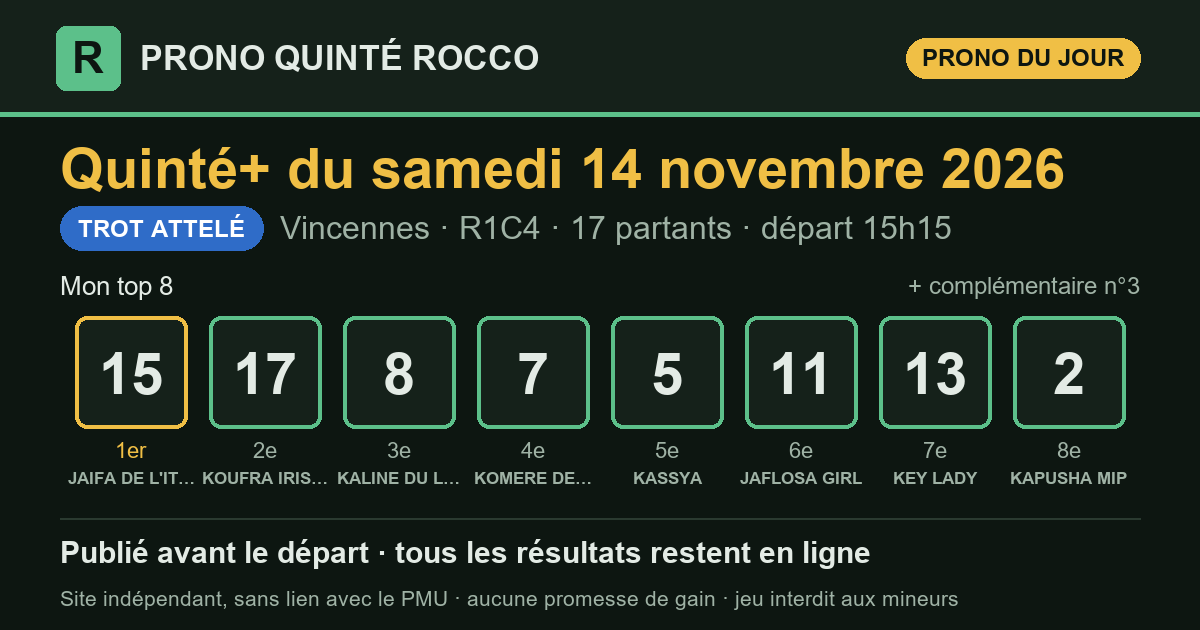
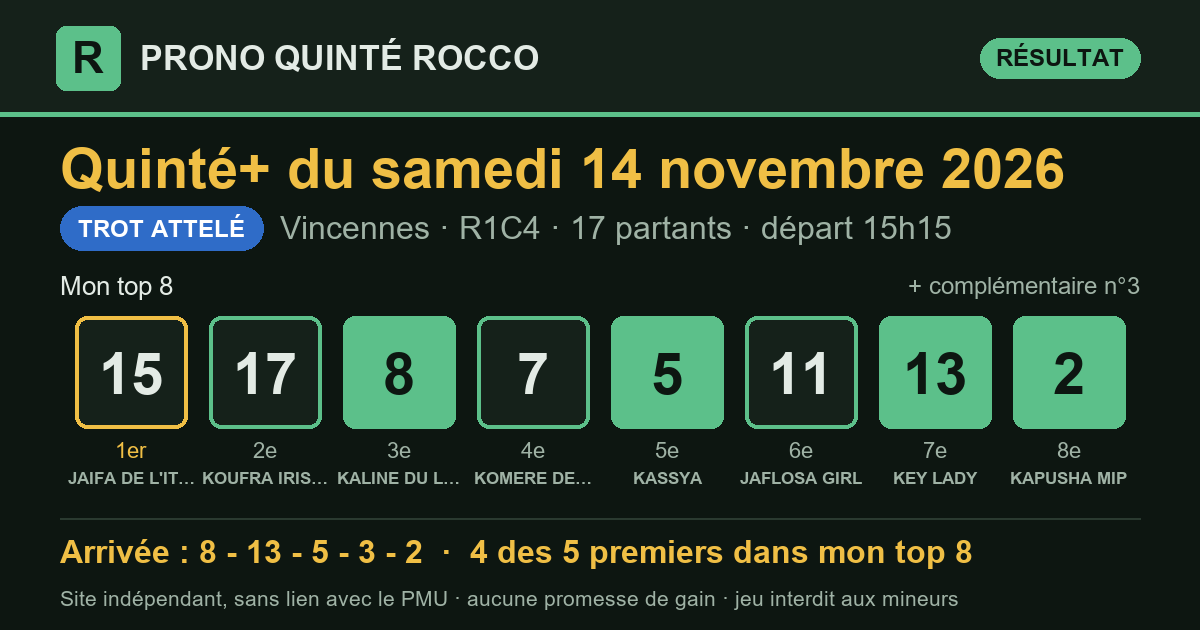
Résultat du Quinté+ 2026-11-14 Vincennes R1C4 — publié le 14/11/2026 15:37 (heure de Paris)

diff --git a/partants.html b/partants.html
@@ -3,7 +3,7 @@
 <head>
 <meta charset="utf-8">
 <meta name="viewport" content="width=device-width, initial-scale=1, viewport-fit=cover">
-<title>Partants du Quinté+ du samedi 14 novembre 2026 : Prix Atlantic — Prono Quinté Rocco</title>
+<title>Partants du Quinté+ du dimanche 15 novembre 2026 : Prix la Haye Jousselin — Prono Quinté Rocco</title>
 <meta name="description" content="Les partants du prochain Quinté+ (programme officiel du PMU), avec le rang de chaque cheval dans mon prono et les liens vers les pronostics de la presse.">
 <link rel="canonical" href="https://prono-quinte-rocco.fr/partants.html">
 <link rel="stylesheet" href="style.css?v=16feb868">
@@ -13,7 +13,7 @@
 <meta property="og:site_name" content="Prono Quinté Rocco">
 <meta property="og:locale" content="fr_FR">
 <meta property="og:type" content="website">
-<meta property="og:title" content="Partants du Quinté+ du samedi 14 novembre 2026 : Prix Atlantic — Prono Quinté Rocco">
+<meta property="og:title" content="Partants du Quinté+ du dimanche 15 novembre 2026 : Prix la Haye Jousselin — Prono Quinté Rocco">
 <meta property="og:description" content="Les partants du prochain Quinté+ (programme officiel du PMU), avec le rang de chaque cheval dans mon prono et les liens vers les pronostics de la presse.">
 <meta property="og:url" content="https://prono-quinte-rocco.fr/partants.html">
 <meta name="twitter:card" content="summary">
@@ -30,110 +30,95 @@
   <p class="surtitre">Programme officiel du PMU</p>
   <h1>Les partants du prochain Quinté+</h1>
   <div class="fiche-course">
-    <p class="fiche-date">Samedi 14 novembre 2026</p>
-    <div class="fiche-rc"><span class="pastille" title="Réunion 1">R1</span><span class="pastille" title="Course 4">C4</span><span class="fiche-nom">Prix Atlantic</span></div>
-    <p class="meta"><span class="type t-attele">Trot attelé</span>Vincennes · 2 700 m · 17 partants</p>
+    <p class="fiche-date">Dimanche 15 novembre 2026</p>
+    <div class="fiche-rc"><span class="pastille" title="Réunion 1">R1</span><span class="pastille" title="Course 6">C6</span><span class="fiche-nom">Prix la Haye Jousselin</span></div>
+    <p class="meta"><span class="type t-obstacle">Obstacle</span>Auteuil · 5 500 m · 15 partants</p>
     <p class="fiche-depart">Départ <b>15:15</b> <span>heure de Paris</span></p>
   </div>
   <p class="surtitre">Les pronostics ailleurs sur le web</p>
-  <div class="liens"><a class="lien-ext" href="https://www.turfoo.fr/programmes-courses/261114/reunion1-vincennes/course4-prix-atlantic/pronostics-presse/" rel="noopener" target="_blank"><b>Les pronostics de la presse →</b><span>sur Turfoo (site extérieur)</span></a><a class="lien-ext" href="https://www.geny.com/programme/2026-11-14" rel="noopener" target="_blank"><b>Partants et pronostics →</b><span>programme du jour sur Geny (site extérieur)</span></a></div>
+  <div class="liens"><a class="lien-ext" href="https://www.turfoo.fr/programmes-courses/261115/reunion1-auteuil/course6-prix-la-haye-jousselin/pronostics-presse/" rel="noopener" target="_blank"><b>Les pronostics de la presse →</b><span>sur Turfoo (site extérieur)</span></a><a class="lien-ext" href="https://www.geny.com/programme/2026-11-15" rel="noopener" target="_blank"><b>Partants et pronostics →</b><span>programme du jour sur Geny (site extérieur)</span></a></div>
   <div class="liste-boite"><table class="liste-partants">
     <thead><tr><th>N°</th><th>Cheval</th><th class="cote"><span class="long">Cote du matin</span><span class="court">Cote</span></th>
     <th class="ia"><span class="long">Mon prono</span><span class="court">Prono</span></th></tr></thead>
-    <tbody><tr class="np">
+    <tbody><tr>
   <td><span class="tapis petit">1</span></td>
-  <td><span class="cheval">JADE DE NAVARY</span><span class="sous">P.Y. LESNE · P. HACHIN</span></td>
-  <td class="cote num">NP</td>
+  <td><span class="cheval">BON GARCON</span><span class="sous">G.RE · CHAILLE-CHAILLE &amp; PAMART</span></td>
+  <td class="cote num">—</td>
   <td class="ia">—</td>
 </tr><tr>
   <td><span class="tapis petit">2</span></td>
-  <td><span class="cheval">KAPUSHA MIP</span><span class="sous">D. THOMAIN · S. GUARATO</span></td>
-  <td class="cote num">27,0</td>
-  <td class="ia"><span class="etat place">8<sup>e</sup></span></td>
+  <td><span class="cheval">AMY DU KIFF</span><span class="sous">T.CHEVILLARD · GAB.LEENDERS (S)</span></td>
+  <td class="cote num">—</td>
+  <td class="ia">—</td>
 </tr><tr>
   <td><span class="tapis petit">3</span></td>
-  <td><span class="cheval">KALISKANA</span><span class="sous">M. ABRIVARD · M. ABRIVARD</span></td>
-  <td class="cote num">14,0</td>
-  <td class="ia"><span class="etat place">compl.</span></td>
+  <td><span class="cheval">TOSCANA DU BERLAIS</span><span class="sous">G.RICHARD · CHAILLE-CHAILLE &amp; PAMART</span></td>
+  <td class="cote num">—</td>
+  <td class="ia">—</td>
 </tr><tr>
   <td><span class="tapis petit">4</span></td>
-  <td><span class="cheval">KANAKA DE BUSSET</span><span class="sous">G. GELORMINI · S. ROGER</span></td>
-  <td class="cote num">32,0</td>
+  <td><span class="cheval">ROYAL SAGA</span><span class="sous">G.MEUNIER · D.BRESSOU</span></td>
+  <td class="cote num">—</td>
   <td class="ia">—</td>
 </tr><tr>
   <td><span class="tapis petit">5</span></td>
-  <td><span class="cheval">KASSYA</span><span class="sous">B. ROCHARD · D. LOCQUENEUX</span></td>
-  <td class="cote num">11,0</td>
-  <td class="ia"><span class="etat place">5<sup>e</sup></span></td>
+  <td><span class="cheval">KALIBRE</span><span class="sous">J.PHELIPPE · M.SEROR (S)</span></td>
+  <td class="cote num">—</td>
+  <td class="ia">—</td>
 </tr><tr>
   <td><span class="tapis petit">6</span></td>
-  <td><span class="cheval">KALITA D&#x27;HENINEL</span><span class="sous">F. LAGADEUC · J.G. VAN EECKHAUTE</span></td>
-  <td class="cote num">14,0</td>
+  <td><span class="cheval">JOJO LAPIN</span><span class="sous">J.PLOUGANOU · D.COTTIN (S)</span></td>
+  <td class="cote num">—</td>
   <td class="ia">—</td>
 </tr><tr>
   <td><span class="tapis petit">7</span></td>
-  <td><span class="cheval">KOMERE DE CORDAY</span><span class="sous">ARNAUD DESMOTTES · ARNAUD DESMOTTES</span></td>
-  <td class="cote num">13,0</td>
-  <td class="ia"><span class="etat place">4<sup>e</sup></span></td>
+  <td><span class="cheval">KILOMETRE ILLIMITE</span><span class="sous">G.MASURE · CHAILLE-CHAILLE &amp; PAMART</span></td>
+  <td class="cote num">—</td>
+  <td class="ia">—</td>
 </tr><tr>
   <td><span class="tapis petit">8</span></td>
-  <td><span class="cheval">KALINE DU LOCHEUR</span><span class="sous">D. BROHIER · D. BROHIER</span></td>
-  <td class="cote num">6,9</td>
-  <td class="ia"><span class="etat place">3<sup>e</sup></span></td>
+  <td><span class="cheval">JUNTOS GANAMOS</span><span class="sous">Q.SAMARIA · D.COTTIN (S)</span></td>
+  <td class="cote num">—</td>
+  <td class="ia">—</td>
 </tr><tr>
   <td><span class="tapis petit">9</span></td>
-  <td><span class="cheval">HUDSON BAIE</span><span class="sous">M. MOTTIER · D. CHEVRIER</span></td>
-  <td class="cote num">72,0</td>
+  <td><span class="cheval">KOLOKICO</span><span class="sous">J.REVELEY · E.CLAYEUX (S)</span></td>
+  <td class="cote num">—</td>
   <td class="ia">—</td>
 </tr><tr>
   <td><span class="tapis petit">10</span></td>
-  <td><span class="cheval">KALMIA QUICK</span><span class="sous">A. REBECHE · M. VARIN</span></td>
-  <td class="cote num">107,0</td>
+  <td><span class="cheval">JOHNNY ROQUE</span><span class="sous">L.BRECHET · D.MELE (S)</span></td>
+  <td class="cote num">—</td>
   <td class="ia">—</td>
 </tr><tr>
   <td><span class="tapis petit">11</span></td>
-  <td><span class="cheval">JAFLOSA GIRL</span><span class="sous">E. RAFFIN · Y. DREUX</span></td>
-  <td class="cote num">12,0</td>
-  <td class="ia"><span class="etat place">6<sup>e</sup></span></td>
+  <td><span class="cheval">LE PETIT CHEVAL</span><span class="sous">B.LE CLERC · F.BELLEMERE</span></td>
+  <td class="cote num">—</td>
+  <td class="ia">—</td>
 </tr><tr>
   <td><span class="tapis petit">12</span></td>
-  <td><span class="cheval">IN RACE LORRAINE</span><span class="sous">G.A. POU POU · G.A. POU POU</span></td>
-  <td class="cote num">69,0</td>
+  <td><span class="cheval">FEU DE DIEU</span><span class="sous">L.PHILIPPERON · D.COTTIN (S)</span></td>
+  <td class="cote num">—</td>
   <td class="ia">—</td>
 </tr><tr>
   <td><span class="tapis petit">13</span></td>
-  <td><span class="cheval">KEY LADY</span><span class="sous">A. ABRIVARD · L. BAUDRON</span></td>
-  <td class="cote num">9,9</td>
-  <td class="ia"><span class="etat place">7<sup>e</sup></span></td>
+  <td><span class="cheval">KIVALA DU BERLAIS</span><span class="sous">J.CHARRON · D.COTTIN (S)</span></td>
+  <td class="cote num">—</td>
+  <td class="ia">—</td>
 </tr><tr>
   <td><span class="tapis petit">14</span></td>
-  <td><span class="cheval">JALOUZ D&#x27;OLIVERIE</span><span class="sous">P.PH. PLOQUIN · J.M. BAUDOUIN</span></td>
-  <td class="cote num">32,0</td>
+  <td><span class="cheval">GINJA DES TAILLONS</span><span class="sous">L.ZULIANI · E.ANDIGNE D&#x27;</span></td>
+  <td class="cote num">—</td>
   <td class="ia">—</td>
 </tr><tr>
   <td><span class="tapis petit">15</span></td>
-  <td><span class="cheval">JAIFA DE L&#x27;ITON</span><span class="sous">A. BARRIER · HUGHES LEVESQUE</span></td>
-  <td class="cote num">4,6</td>
-  <td class="ia"><span class="etat place">1<sup>er</sup></span></td>
-</tr><tr>
-  <td><span class="tapis petit">16</span></td>
-  <td><span class="cheval">IDREAMIS</span><span class="sous">J.F. SENET · J.F. SENET</span></td>
-  <td class="cote num">113,0</td>
-  <td class="ia">—</td>
-</tr><tr>
-  <td><span class="tapis petit">17</span></td>
-  <td><span class="cheval">KOUFRA IRIS&#x27;EYES</span><span class="sous">A. COLLETTE · J.M. CHAINEUX</span></td>
-  <td class="cote num">5,8</td>
-  <td class="ia"><span class="etat place">2<sup>e</sup></span></td>
-</tr><tr>
-  <td><span class="tapis petit">18</span></td>
-  <td><span class="cheval">JEZABELLE BIE</span><span class="sous">M. IZZO · M. IZZO</span></td>
-  <td class="cote num">142,0</td>
+  <td><span class="cheval">LACOKOKELDY</span><span class="sous">A.ZULIANI · F.NICOLLE</span></td>
+  <td class="cote num">—</td>
   <td class="ia">—</td>
 </tr></tbody>
   </table></div>
-  <p class="meta">La colonne « Mon prono » donne le rang de chaque cheval dans mon top 8, tel qu&#x27;il est publié sur ce site. Sous chaque cheval : driver · entraîneur. Partants et cotes : programme
-  officiel du PMU, lu le 14/11 à 10:07 (heure de Paris). NP = non-partant.</p>
+  <p class="meta">Mon prono de cette course sera publié le matin de la course, avant le départ. Sous chaque cheval : jockey · entraîneur. Partants et cotes : programme
+  officiel du PMU, lu le 14/11 à 15:37 (heure de Paris). NP = non-partant.</p>
 </section>
 </main>
 <footer class="pied">

diff --git a/index.html b/index.html
@@ -16,7 +16,7 @@
 <meta property="og:title" content="Pronostics Quinté+ et Super Pick 5 du samedi 14 novembre 2026 — Prono Quinté Rocco">
 <meta property="og:description" content="Pronostics Quinté+ (Prix Atlantic) et Super Pick 5 (Prix du Languedoc) du jour : mes top 8, publiés avant le départ, puis tous les résultats et le rendement réel.">
 <meta property="og:url" content="https://prono-quinte-rocco.fr/">
-<meta property="og:image" content="https://prono-quinte-rocco.fr/partage/jour-2026-11-14.png?v=31b1ccc4">
+<meta property="og:image" content="https://prono-quinte-rocco.fr/partage/jour-2026-11-14.png?v=0c82475a">
 <meta property="og:image:type" content="image/png">
 <meta property="og:image:width" content="1200">
 <meta property="og:image:height" content="630">
@@ -32,7 +32,7 @@
 <div class="jeux j-quinte" role="navigation" aria-label="Choix du jeu"><a class="jeu jeu-quinte actif" href="index.html" aria-current="true">Quinté+</a><a class="jeu jeu-sp5" href="superpick5.html">e-Super Pick5<small>entre 17 h et 19 h</small></a></div>
 <main>
 <section class="une" aria-labelledby="t-jour">
-  <p class="surtitre">Quinté+ du jour</p>
+  <p class="surtitre">Dernier Quinté+</p>
   <h1 id="t-jour">Le prono du Quinté+, résultats compris</h1>
   <p class="chapo">Chaque matin, j'étudie les partants du Quinté+ avec le logiciel que
   j'ai conçu, selon ma propre méthode, qu'une intelligence artificielle m'aide à
@@ -43,10 +43,13 @@
   <p class="meta">Prix Atlantic · Vincennes · <strong>R1C4</strong> · 17 partants · <span class="lisib">lisibilité <span class="note" aria-label="note 3 sur 5" title="lisibilité 3/5 : course assez ouverte"><i class="on"></i><i class="on"></i><i class="on"></i><i class=""></i><i class=""></i></span> 3/5</span></p>
   <div class="zone-prono">
     <h3 class="zone-titre">Mon top 8</h3>
-    <ol class="partants" aria-label="Mon top 8"><li><span class="rang">1<sup>er</sup></span><span class="tapis ">15</span><span class="nom">JAIFA DE L&#x27;ITON</span></li><li><span class="rang">2<sup>e</sup></span><span class="tapis ">17</span><span class="nom">KOUFRA IRIS&#x27;EYES</span></li><li><span class="rang">3<sup>e</sup></span><span class="tapis ">8</span><span class="nom">KALINE DU LOCHEUR</span></li><li><span class="rang">4<sup>e</sup></span><span class="tapis ">7</span><span class="nom">KOMERE DE CORDAY</span></li><li><span class="rang">5<sup>e</sup></span><span class="tapis ">5</span><span class="nom">KASSYA</span></li><li><span class="rang">6<sup>e</sup></span><span class="tapis ">11</span><span class="nom">JAFLOSA GIRL</span></li><li><span class="rang">7<sup>e</sup></span><span class="tapis ">13</span><span class="nom">KEY LADY</span></li><li><span class="rang">8<sup>e</sup></span><span class="tapis ">2</span><span class="nom">KAPUSHA MIP</span></li><li><span class="rang">compl.</span><span class="tapis creux">3</span><span class="nom">KALISKANA</span></li></ol>
+    <ol class="partants" aria-label="Mon top 8"><li><span class="rang">1<sup>er</sup></span><span class="tapis ">15</span><span class="nom">JAIFA DE L&#x27;ITON</span></li><li><span class="rang">2<sup>e</sup></span><span class="tapis ">17</span><span class="nom">KOUFRA IRIS&#x27;EYES</span></li><li><span class="rang">3<sup>e</sup></span><span class="tapis plein">8</span><span class="nom">KALINE DU LOCHEUR</span></li><li><span class="rang">4<sup>e</sup></span><span class="tapis ">7</span><span class="nom">KOMERE DE CORDAY</span></li><li><span class="rang">5<sup>e</sup></span><span class="tapis plein">5</span><span class="nom">KASSYA</span></li><li><span class="rang">6<sup>e</sup></span><span class="tapis ">11</span><span class="nom">JAFLOSA GIRL</span></li><li><span class="rang">7<sup>e</sup></span><span class="tapis plein">13</span><span class="nom">KEY LADY</span></li><li><span class="rang">8<sup>e</sup></span><span class="tapis plein">2</span><span class="nom">KAPUSHA MIP</span></li><li><span class="rang">compl.</span><span class="tapis creux plein">3</span><span class="nom">KALISKANA</span></li></ol>
     <div class="pied-carte"><span>Analysé le 14/11 à 10:01 · en ligne le 14/11 à 10:03 · départ à 15:15 (heure de Paris)</span><span><a href="quinte/2026-11-14.html">Détail de la course</a></span></div>
   </div>
-  <div class="zone-arrivee attente"><p>L'arrivée officielle s'affichera ici après la course.</p></div>
+  <div class="zone-arrivee">
+    <div class="zone-tete"><h3 class="zone-titre">Arrivée officielle</h3><span class="etat place">4 des 5 premiers dans mon top 8</span><span class="etat non">mon 1er (n°15) : non placé</span></div>
+    <ol class="partants" aria-label="Arrivée officielle"><li><span class="rang">1<sup>er</sup></span><span class="tapis plein">8</span><span class="nom">KALINE DU LOCHEUR</span></li><li><span class="rang">2<sup>e</sup></span><span class="tapis plein">13</span><span class="nom">KEY LADY</span></li><li><span class="rang">3<sup>e</sup></span><span class="tapis plein">5</span><span class="nom">KASSYA</span></li><li><span class="rang">4<sup>e</sup></span><span class="tapis creux plein">3</span><span class="nom">KALISKANA</span></li><li><span class="rang">5<sup>e</sup></span><span class="tapis plein">2</span><span class="nom">KAPUSHA MIP</span></li></ol>
+  </div>
 </article>
 </section>
 <section class="suivre" aria-label="Suivre et soutenir">
@@ -76,7 +79,7 @@
 </section>
 <section class="bilan" aria-labelledby="t-bilan">
   <h2 id="t-bilan">Mon bilan depuis le 8 septembre 2026</h2>
-  <div class="tableau chiffres"><div class="case"><span class="gros ">73 %</span><span class="lib">des arrivants trouvés dans mon top 8</span><span class="ref">un top 8 tiré au hasard : 51 %</span></div><div class="case"><span class="gros ">88 %</span><span class="lib">des gagnants présents dans mon top 8</span><span class="ref"></span></div><div class="case"><span class="gros ">50 %</span><span class="lib">mon 1er placé</span><span class="ref">sur 66 Quintés</span></div><div class="case"><span class="gros perte">0,92 €</span><span class="lib">rendus pour 1 € joué placé sur mon 1er</span><span class="ref">rapports officiels PMU</span></div><div class="case"><span class="gros perte">0,43 €</span><span class="lib">rendus pour 1 € joué en Quinté+ combiné sur mon top 8</span><span class="ref">56 combinaisons, rapports PMU.fr, sur 66 Quintés</span></div></div>
+  <div class="tableau chiffres"><div class="case"><span class="gros ">73 %</span><span class="lib">des arrivants trouvés dans mon top 8</span><span class="ref">un top 8 tiré au hasard : 51 %</span></div><div class="case"><span class="gros ">88 %</span><span class="lib">des gagnants présents dans mon top 8</span><span class="ref"></span></div><div class="case"><span class="gros ">49 %</span><span class="lib">mon 1er placé</span><span class="ref">sur 67 Quintés</span></div><div class="case"><span class="gros perte">0,91 €</span><span class="lib">rendus pour 1 € joué placé sur mon 1er</span><span class="ref">rapports officiels PMU</span></div><div class="case"><span class="gros perte">0,43 €</span><span class="lib">rendus pour 1 € joué en Quinté+ combiné sur mon top 8</span><span class="ref">56 combinaisons, rapports PMU.fr, sur 67 Quintés</span></div></div>
   <p class="avertissement">Moins de 1 € rendu pour 1 € joué : suivre mon prono à la lettre fait <strong>perdre de l'argent</strong> sur cette période. Il sert à analyser une course, pas à promettre un gain.</p>
 </section>
 </main>

diff --git a/quinte/2026-11-14.html b/quinte/2026-11-14.html
@@ -16,7 +16,7 @@
 <meta property="og:title" content="Pronostic Quinté+ du samedi 14 novembre 2026 : Prix Atlantic à Vincennes — Prono Quinté Rocco">
 <meta property="og:description" content="Prono Quinté+ du samedi 14 novembre 2026 (Prix Atlantic, Vincennes) : mon top 8, l&#x27;arrivée officielle et les rapports PMU.fr.">
 <meta property="og:url" content="https://prono-quinte-rocco.fr/quinte/2026-11-14.html">
-<meta property="og:image" content="https://prono-quinte-rocco.fr/partage/2026-11-14.png?v=647a895c">
+<meta property="og:image" content="https://prono-quinte-rocco.fr/partage/2026-11-14.png?v=fec7392f">
 <meta property="og:image:type" content="image/png">
 <meta property="og:image:width" content="1200">
 <meta property="og:image:height" content="630">
@@ -36,15 +36,25 @@
   <h1>Pronostic Quinté+ du samedi 14 novembre 2026</h1>
   <p class="chapo">Prix Atlantic · Vincennes · R1C4 · Attelé · 17 partants</p>
   <article class="carte-course">
-  <div class="tete"><h2>Mon prono</h2><span class="type t-attele">Trot attelé</span></div>
+  <div class="tete"><h2>Mon prono et l&#x27;arrivée officielle</h2><span class="type t-attele">Trot attelé</span></div>
   <p class="meta">Prix Atlantic · Vincennes · <strong>R1C4</strong> · 17 partants · <span class="lisib">lisibilité <span class="note" aria-label="note 3 sur 5" title="lisibilité 3/5 : course assez ouverte"><i class="on"></i><i class="on"></i><i class="on"></i><i class=""></i><i class=""></i></span> 3/5</span></p>
   <div class="zone-prono">
     <h3 class="zone-titre">Mon top 8</h3>
-    <ol class="partants" aria-label="Mon top 8"><li><span class="rang">1<sup>er</sup></span><span class="tapis ">15</span><span class="nom">JAIFA DE L&#x27;ITON</span></li><li><span class="rang">2<sup>e</sup></span><span class="tapis ">17</span><span class="nom">KOUFRA IRIS&#x27;EYES</span></li><li><span class="rang">3<sup>e</sup></span><span class="tapis ">8</span><span class="nom">KALINE DU LOCHEUR</span></li><li><span class="rang">4<sup>e</sup></span><span class="tapis ">7</span><span class="nom">KOMERE DE CORDAY</span></li><li><span class="rang">5<sup>e</sup></span><span class="tapis ">5</span><span class="nom">KASSYA</span></li><li><span class="rang">6<sup>e</sup></span><span class="tapis ">11</span><span class="nom">JAFLOSA GIRL</span></li><li><span class="rang">7<sup>e</sup></span><span class="tapis ">13</span><span class="nom">KEY LADY</span></li><li><span class="rang">8<sup>e</sup></span><span class="tapis ">2</span><span class="nom">KAPUSHA MIP</span></li><li><span class="rang">compl.</span><span class="tapis creux">3</span><span class="nom">KALISKANA</span></li></ol>
+    <ol class="partants" aria-label="Mon top 8"><li><span class="rang">1<sup>er</sup></span><span class="tapis ">15</span><span class="nom">JAIFA DE L&#x27;ITON</span></li><li><span class="rang">2<sup>e</sup></span><span class="tapis ">17</span><span class="nom">KOUFRA IRIS&#x27;EYES</span></li><li><span class="rang">3<sup>e</sup></span><span class="tapis plein">8</span><span class="nom">KALINE DU LOCHEUR</span></li><li><span class="rang">4<sup>e</sup></span><span class="tapis ">7</span><span class="nom">KOMERE DE CORDAY</span></li><li><span class="rang">5<sup>e</sup></span><span class="tapis plein">5</span><span class="nom">KASSYA</span></li><li><span class="rang">6<sup>e</sup></span><span class="tapis ">11</span><span class="nom">JAFLOSA GIRL</span></li><li><span class="rang">7<sup>e</sup></span><span class="tapis plein">13</span><span class="nom">KEY LADY</span></li><li><span class="rang">8<sup>e</sup></span><span class="tapis plein">2</span><span class="nom">KAPUSHA MIP</span></li><li><span class="rang">compl.</span><span class="tapis creux plein">3</span><span class="nom">KALISKANA</span></li></ol>
     <div class="pied-carte"><span>Analysé le 14/11 à 10:01 · en ligne le 14/11 à 10:03 · départ à 15:15 (heure de Paris)</span><span></span></div>
   </div>
-  <div class="zone-arrivee attente"><p>L'arrivée officielle s'affichera ici après la course.</p></div>
+  <div class="zone-arrivee">
+    <div class="zone-tete"><h3 class="zone-titre">Arrivée officielle</h3><span class="etat place">4 des 5 premiers dans mon top 8</span><span class="etat non">mon 1er (n°15) : non placé</span></div>
+    <ol class="partants" aria-label="Arrivée officielle"><li><span class="rang">1<sup>er</sup></span><span class="tapis plein">8</span><span class="nom">KALINE DU LOCHEUR</span></li><li><span class="rang">2<sup>e</sup></span><span class="tapis plein">13</span><span class="nom">KEY LADY</span></li><li><span class="rang">3<sup>e</sup></span><span class="tapis plein">5</span><span class="nom">KASSYA</span></li><li><span class="rang">4<sup>e</sup></span><span class="tapis creux plein">3</span><span class="nom">KALISKANA</span></li><li><span class="rang">5<sup>e</sup></span><span class="tapis plein">2</span><span class="nom">KAPUSHA MIP</span></li></ol>
+  </div>
 </article>
+<section class="carte-course rapports" aria-labelledby="t-rap">
+  <div class="tete"><h2 id="t-rap">Les rapports</h2></div>
+  <div class="deux">
+    <div><h3>Ce qu'aurait rendu mon prono</h3><dl class="kv"><dt>1 € placé sur mon 1er (n°15)</dt><dd class="perte">0,00 €</dd><dt>1 € gagnant sur mon 1er</dt><dd class="perte">0,00 €</dd><dt>Quinté+ combiné sur mon top 8 (mise 112 €)</dt><dd class="partiel"><span class="etat partiel somme">72,00 €</span></dd><dd class="dont">dont Bonus 4sur5 × 4, Bonus 3 × 6</dd></dl></div>
+    <div><h3>Rapports officiels</h3><dl class="kv"><dt>e-Quinté+ Ordre (2 €)</dt><dd>16 726,00 €</dd><dt>e-Quinté+ Désordre (2 €)</dt><dd>219,40 €</dd><dt>e-Bonus 4sur5 (2 €)</dt><dd>8,40 €</dd><dt>e-Bonus 3 (2 €)</dt><dd>6,40 €</dd></dl></div>
+  </div>
+</section>
 </section>
 </main>
 <footer class="pied">

diff --git a/resultats.html b/resultats.html
@@ -49,12 +49,12 @@
     <th colspan="4" class="res g-res">Le résultat officiel</th></tr>
     <tr><th>Date</th><th>Course</th><th>Top 8</th><th class="c-lis">Lisibilité</th><th class="res c-arr">Arrivée</th>
     <th class="res">Trouvés</th><th class="res">Mon 1er</th><th class="res mont">Quinté+ top 8<br><small>(mise 112 €)</small></th></tr></thead>
-    <tbody><tr class="attente">
+    <tbody><tr>
   <td class="c-date"><a href="quinte/2026-11-14.html">14/11</a></td>
   <td class="c-course">Vincennes<br><span class="meta">R1C4</span><span class="type t-attele petit">Attelé</span></td>
-  <td class="c-top8" data-label="Mon top 8"><div class="rangee"><span class="tapis petit">15</span><span class="tapis petit">17</span><span class="tapis petit">8</span><span class="tapis petit">7</span><span class="tapis petit">5</span><span class="tapis petit">11</span><span class="tapis petit">13</span><span class="tapis petit">2</span></div></td>
+  <td class="c-top8" data-label="Mon top 8"><div class="rangee"><span class="tapis petit">15</span><span class="tapis petit">17</span><span class="tapis plein petit">8</span><span class="tapis petit">7</span><span class="tapis plein petit">5</span><span class="tapis petit">11</span><span class="tapis plein petit">13</span><span class="tapis plein petit">2</span></div></td>
   <td class="c-lis" data-label="Lisibilité"><span class="note" aria-label="note 3 sur 5" title="lisibilité 3/5 : course assez ouverte"><i class="on"></i><i class="on"></i><i class="on"></i><i class=""></i><i class=""></i></span> 3/5</td>
-  <td class="res c-arr" data-label="Arrivée"><span class="etat attente">en attente</span></td><td class="res num c-trouves" data-label="Trouvés">—</td><td class="res c-premier" data-label="Mon 1er"><span class="etat attente">—</span></td><td class="res mont c-mont" data-label="Quinté+ top 8 (mise 112 €)">—</td>
+  <td class="res c-arr" data-label="Arrivée"><div class="rangee"><span class="tapis plein petit" title="1er">8</span><span class="tapis plein petit" title="2e">13</span><span class="tapis plein petit" title="3e">5</span><span class="tapis hors petit" title="4e">3</span><span class="tapis plein petit" title="5e">2</span></div></td><td class="res num c-trouves" data-label="Trouvés"><span class="etat place" title="4 des 5 premiers sont dans mon top 8">4/5</span></td><td class="res c-premier" data-label="Mon 1er"><span class="etat non">non placé</span></td><td class="res mont c-mont partiel" data-label="Quinté+ top 8 (mise 112 €)" title="perte nette : 40,00 €"><span class="etat partiel somme">72,00 €</span></td>
 </tr><tr>
   <td class="c-date"><a href="quinte/2026-11-13.html">13/11</a></td>
   <td class="c-course">Vincennes<br><span class="meta">R1C4</span><span class="type t-attele petit">Attelé</span></td>
@@ -456,7 +456,7 @@
 </section>
 <section class="bilan" aria-labelledby="t-bilan">
   <h2 id="t-bilan">Mon bilan depuis le 8 septembre 2026</h2>
-  <div class="tableau chiffres"><div class="case"><span class="gros ">73 %</span><span class="lib">des arrivants trouvés dans mon top 8</span><span class="ref">un top 8 tiré au hasard : 51 %</span></div><div class="case"><span class="gros ">88 %</span><span class="lib">des gagnants présents dans mon top 8</span><span class="ref"></span></div><div class="case"><span class="gros ">50 %</span><span class="lib">mon 1er placé</span><span class="ref">sur 66 Quintés</span></div><div class="case"><span class="gros perte">0,92 €</span><span class="lib">rendus pour 1 € joué placé sur mon 1er</span><span class="ref">rapports officiels PMU</span></div><div class="case"><span class="gros perte">0,43 €</span><span class="lib">rendus pour 1 € joué en Quinté+ combiné sur mon top 8</span><span class="ref">56 combinaisons, rapports PMU.fr, sur 66 Quintés</span></div></div>
+  <div class="tableau chiffres"><div class="case"><span class="gros ">73 %</span><span class="lib">des arrivants trouvés dans mon top 8</span><span class="ref">un top 8 tiré au hasard : 51 %</span></div><div class="case"><span class="gros ">88 %</span><span class="lib">des gagnants présents dans mon top 8</span><span class="ref"></span></div><div class="case"><span class="gros ">49 %</span><span class="lib">mon 1er placé</span><span class="ref">sur 67 Quintés</span></div><div class="case"><span class="gros perte">0,91 €</span><span class="lib">rendus pour 1 € joué placé sur mon 1er</span><span class="ref">rapports officiels PMU</span></div><div class="case"><span class="gros perte">0,43 €</span><span class="lib">rendus pour 1 € joué en Quinté+ combiné sur mon top 8</span><span class="ref">56 combinaisons, rapports PMU.fr, sur 67 Quintés</span></div></div>
   <p class="avertissement">Moins de 1 € rendu pour 1 € joué : suivre mon prono à la lettre fait <strong>perdre de l'argent</strong> sur cette période. Il sert à analyser une course, pas à promettre un gain.</p>
 </section>
 </main>

diff --git a/superpick5-partants.html b/superpick5-partants.html
@@ -43,72 +43,72 @@
     <tbody><tr>
   <td><span class="tapis petit">1</span></td>
   <td><span class="cheval">DIVA DEL RONCO</span><span class="sous">V. CIOTOLA · Vitale CIOTOLA</span></td>
-  <td class="cote num">—</td>
+  <td class="cote num">91,0</td>
   <td class="ia">—</td>
 </tr><tr>
   <td><span class="tapis petit">2</span></td>
   <td><span class="cheval">HANNAH</span><span class="sous">M. GYRE · Julien RAFFESTIN</span></td>
-  <td class="cote num">189,0</td>
+  <td class="cote num">160,0</td>
   <td class="ia">—</td>
 </tr><tr>
   <td><span class="tapis petit">3</span></td>
   <td><span class="cheval">HURRICANE CARTER</span><span class="sous">A. ABRIVARD · Mme S. RAIMOND</span></td>
-  <td class="cote num">46,0</td>
+  <td class="cote num">36,0</td>
   <td class="ia"><span class="etat place">7<sup>e</sup></span></td>
 </tr><tr>
   <td><span class="tapis petit">4</span></td>
   <td><span class="cheval">INDUS VAL</span><span class="sous">CH. MARTENS · J.M. CHAINEUX</span></td>
-  <td class="cote num">31,0</td>
+  <td class="cote num">24,0</td>
   <td class="ia"><span class="etat place">8<sup>e</sup></span></td>
 </tr><tr>
   <td><span class="tapis petit">5</span></td>
   <td><span class="cheval">INVICTUS MADIBA</span><span class="sous">A. COLLETTE · B. MICHARDIERE</span></td>
-  <td class="cote num">72,0</td>
+  <td class="cote num">46,0</td>
   <td class="ia">—</td>
 </tr><tr>
   <td><span class="tapis petit">6</span></td>
   <td><span class="cheval">HORATIUS D&#x27;ELA</span><span class="sous">M. ABRIVARD · M. SASSIER</span></td>
-  <td class="cote num">31,0</td>
+  <td class="cote num">30,0</td>
   <td class="ia">—</td>
 </tr><tr>
   <td><span class="tapis petit">7</span></td>
   <td><span class="cheval">JANGO VICI</span><span class="sous">B. ROCHARD · A. RIPOLL RIGO</span></td>
-  <td class="cote num">10,0</td>
+  <td class="cote num">9,4</td>
   <td class="ia"><span class="etat place">4<sup>e</sup></span></td>
 </tr><tr>
   <td><span class="tapis petit">8</span></td>
   <td><span class="cheval">JILORD VIVA</span><span class="sous">E. RAFFIN · Julien RAFFESTIN</span></td>
-  <td class="cote num">12,0</td>
+  <td class="cote num">5,8</td>
   <td class="ia"><span class="etat place">1<sup>er</sup></span></td>
 </tr><tr>
   <td><span class="tapis petit">9</span></td>
   <td><span class="cheval">ISOFOU DU CHENE</span><span class="sous">P.PH. PLOQUIN · J. LE MER</span></td>
-  <td class="cote num">2,8</td>
+  <td class="cote num">4,2</td>
   <td class="ia"><span class="etat place">3<sup>e</sup></span></td>
 </tr><tr>
   <td><span class="tapis petit">10</span></td>
   <td><span class="cheval">HARLEM DE BUCY</span><span class="sous">F. LAGADEUC · D. ALEXANDRE</span></td>
-  <td class="cote num">31,0</td>
+  <td class="cote num">33,0</td>
   <td class="ia"><span class="etat place">compl.</span></td>
 </tr><tr>
   <td><span class="tapis petit">11</span></td>
   <td><span class="cheval">IBISCUS MAN</span><span class="sous">M. MOTTIER · R.CH. LARUE</span></td>
-  <td class="cote num">3,8</td>
+  <td class="cote num">3,9</td>
   <td class="ia"><span class="etat place">2<sup>e</sup></span></td>
 </tr><tr>
   <td><span class="tapis petit">12</span></td>
   <td><span class="cheval">KING OPERA</span><span class="sous">W. BIGEON · W. BIGEON</span></td>
-  <td class="cote num">9,2</td>
+  <td class="cote num">10,0</td>
   <td class="ia"><span class="etat place">5<sup>e</sup></span></td>
 </tr><tr>
   <td><span class="tapis petit">13</span></td>
   <td><span class="cheval">HUBBLE DU VIVIER</span><span class="sous">J.M. BAZIRE · N. BAZIRE</span></td>
-  <td class="cote num">7,5</td>
+  <td class="cote num">7,4</td>
   <td class="ia"><span class="etat place">6<sup>e</sup></span></td>
 </tr></tbody>
   </table></div>
   <p class="meta">La colonne « Mon prono » donne le rang de chaque cheval dans mon top 8, tel qu&#x27;il est publié sur ce site. Sous chaque cheval : driver · entraîneur. Partants et cotes : programme
-  officiel du PMU, lu le 14/11 à 10:07 (heure de Paris). NP = non-partant.</p>
+  officiel du PMU, lu le 14/11 à 15:37 (heure de Paris). NP = non-partant.</p>
 </section>
 </main>
 <footer class="pied">
